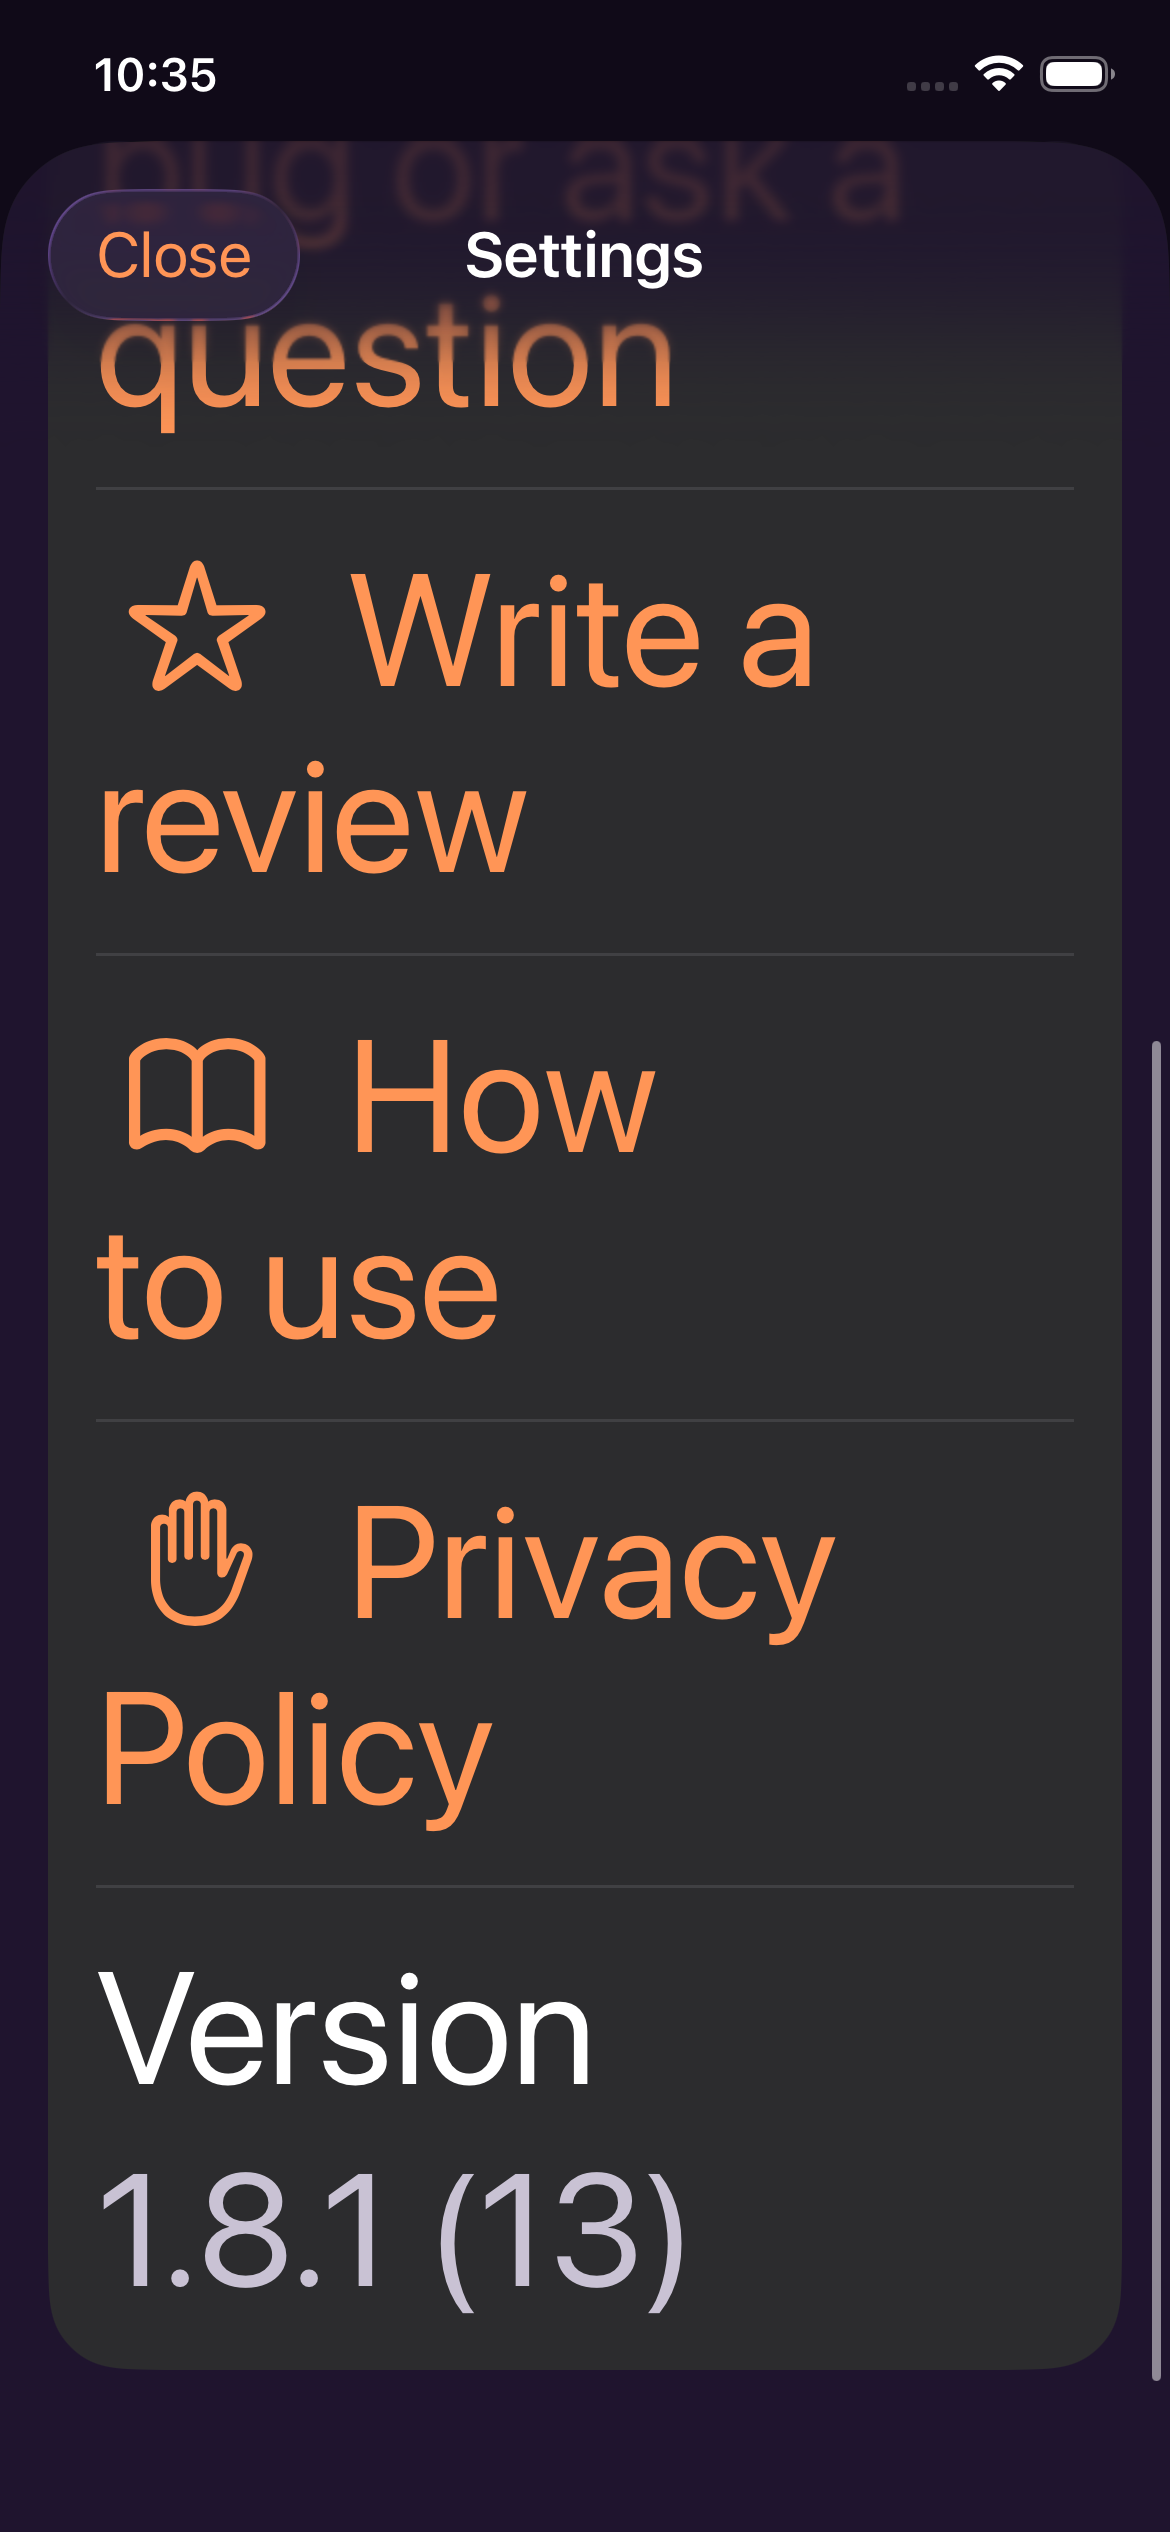
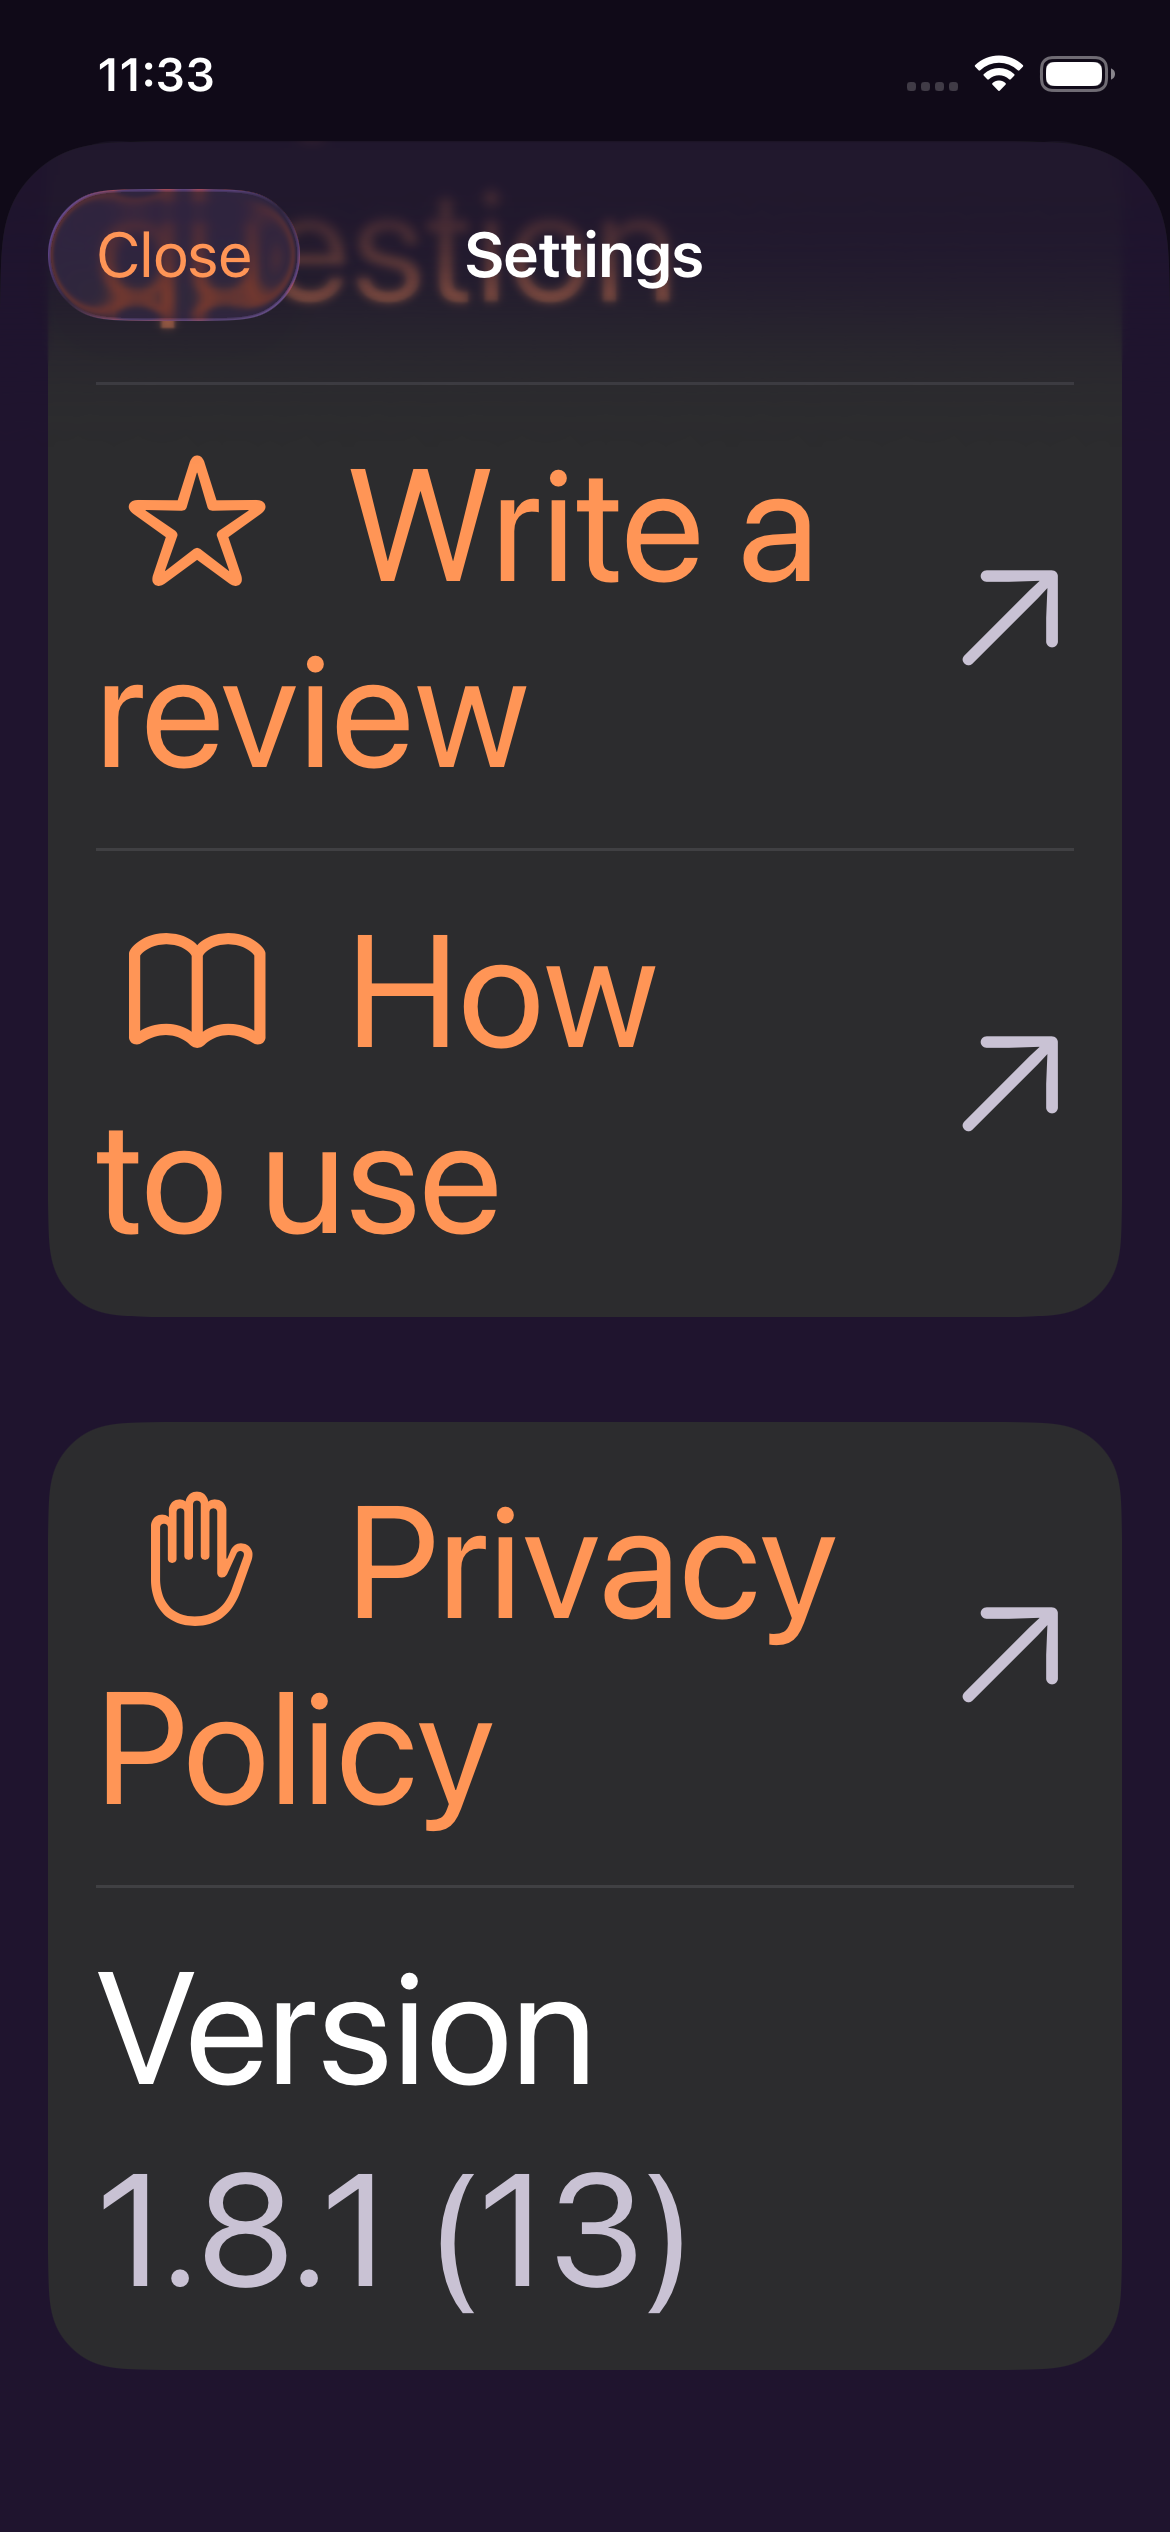
fix(settings): tidy the layout and mail body (#204)
- Drop the duplicate section header. Split the rows into three sections
  without headers: night mode / contact, review, how to / privacy,
  version.
- Start the mail body with two blank lines, then the separator and device
  information. Remove the greeting from all 13 languages.
- Add a small arrow.up.right to the rows that leave the app (review, how
  to use, privacy), hidden from VoiceOver.

diff --git a/CustomSoundAlarm/Views/SettingsView.swift b/CustomSoundAlarm/Views/SettingsView.swift
@@ -23,7 +23,9 @@ struct SettingsView: View {
                         row(title: "night_mode", systemImage: "moon.zzz")
                     }
                     .accessibilityIdentifier("settings.bedside")
+                }
 
+                Section {
                     Button {
                         openContact()
                     } label: {
@@ -35,27 +37,27 @@ struct SettingsView: View {
                         AnalyticsService.shared.capture(.reviewLinkOpened)
                         openURL(SettingsLogic.reviewURL)
                     } label: {
-                        row(title: "settings_review", systemImage: "star")
+                        externalRow(title: "settings_review", systemImage: "star")
                     }
                     .accessibilityIdentifier("settings.review")
 
                     Button {
                         openURL(SettingsLogic.howToURL(locale: .current))
                     } label: {
-                        row(title: "settings_howto", systemImage: "book")
+                        externalRow(title: "settings_howto", systemImage: "book")
                     }
                     .accessibilityIdentifier("settings.howto")
+                }
 
+                Section {
                     Button {
                         openURL(SettingsLogic.privacyURL)
                     } label: {
-                        row(title: "settings_privacy", systemImage: "hand.raised")
+                        externalRow(title: "settings_privacy", systemImage: "hand.raised")
                     }
                     .accessibilityIdentifier("settings.privacy")
 
                     versionRow
-                } header: {
-                    WarmSectionHeader(title: String(localized: "settings"))
                 }
             }
             .warmListBackground()
@@ -83,6 +85,18 @@ struct SettingsView: View {
                     showingMail = false
                 }
             }
+        }
+    }
+
+    /// アプリの外に出る行。右端に小さな矢印を置く（読み上げ不要）。
+    private func externalRow(title: LocalizedStringKey, systemImage: String) -> some View {
+        HStack {
+            row(title: title, systemImage: systemImage)
+            Spacer(minLength: 8)
+            Image(systemName: "arrow.up.right")
+                .font(.footnote)
+                .foregroundStyle(Color.textSecondary)
+                .accessibilityHidden(true)
         }
     }
 

diff --git a/CustomSoundAlarmTests/Models/SettingsLogicTests.swift b/CustomSoundAlarmTests/Models/SettingsLogicTests.swift
@@ -60,6 +60,10 @@ struct SettingsLogicTests {
             osVersion: "26.5",
             deviceModel: "iPhone (iPhone18,1)"
         )
+        // お礼の定型文は入れず、空行2つのあとに区切りと端末情報だけ
+        #expect(body.hasPrefix("\n\n---\n"))
+        #expect(!body.contains("Thanks"))
+        #expect(!body.lowercased().contains("please write"))
         #expect(body.contains("1.8.2 (14)"))
         #expect(body.contains("26.5"))
         #expect(body.contains("iPhone (iPhone18,1)"))
